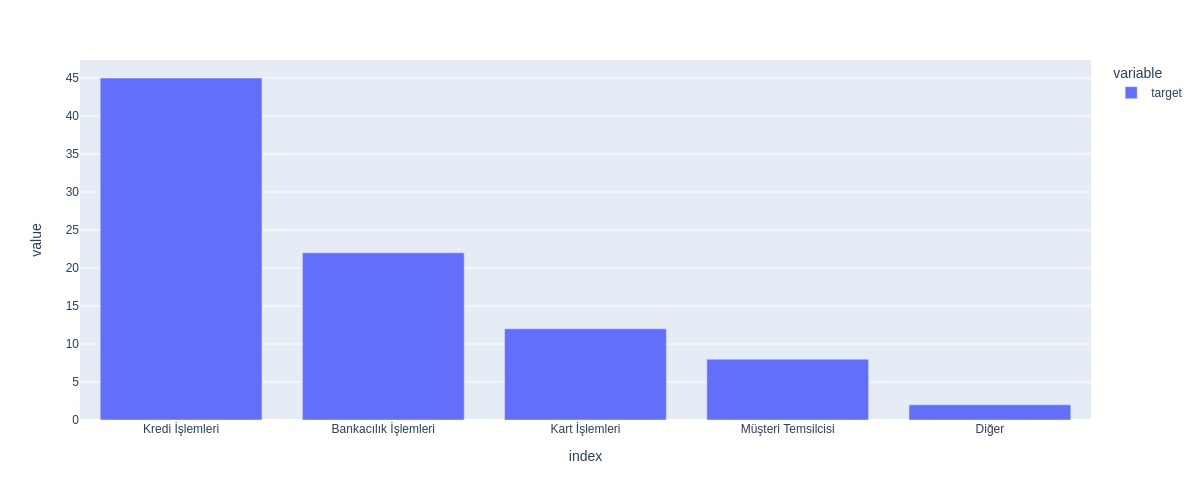
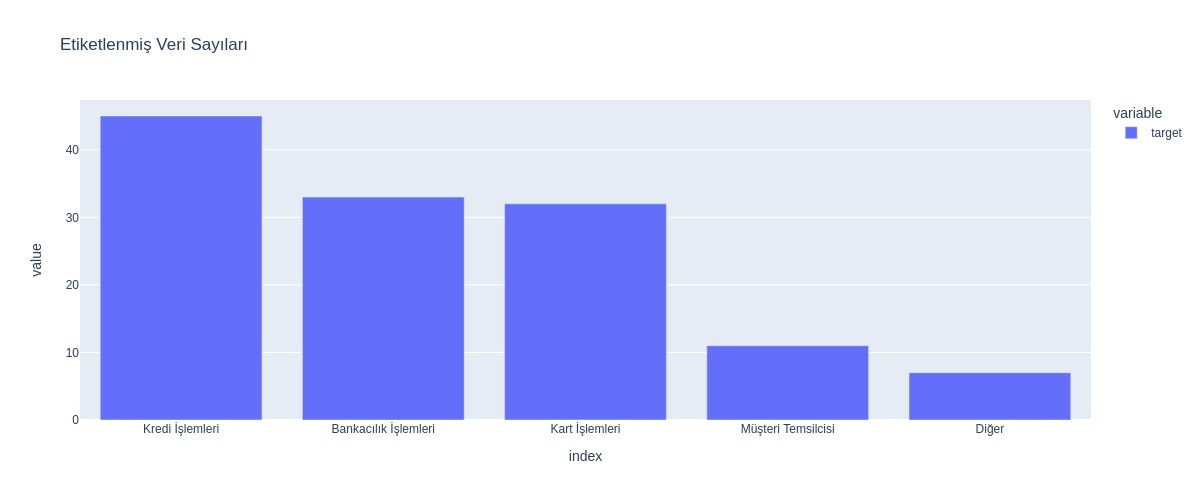
requirements added

diff --git a/main.py b/main.py
@@ -1,22 +1,17 @@
 import streamlit as st
-import psycopg2, time, numpy, os
+import psycopg2, time, numpy, os, pyautogui
 import pandas as pd
 from psycopg2.extensions import register_adapter, AsIs
+import plotly.express as px
+import plotly.io as pio
 
-df = pd.read_csv("../databaseConnect/database.csv")
-# hostname = "ec2-3-227-68-43.compute-1.amazonaws.com"
-# port_id = 5432
-# database = "d35km1f047g05o"
-# username = "wzgatqmfdcynrt"
[1 lines of base64/hex data omitted]
 
+# df = pd.read_csv("../databaseConnect/database.csv")
 hostname = "localhost"
 port_id = 5432
 database = "nlpDatabase"
 username = "postgres"
 password = "Eliftosun123"
-
-
 
 st.set_page_config(page_title="Veri Etiketleme Aracı",
                    page_icon=":bar_chart:",
@@ -27,6 +22,85 @@ st.set_page_config(page_title="Veri Etiketleme Aracı",
 st.markdown('''<h1 style='text-align: center; color: white; font_size = 20'> 📊 Veri Etiketleme Aracı</h1>''',
             unsafe_allow_html=True)
 
+def sqlExecute(raw_code):
+    with psycopg2.connect(host=hostname, port=port_id, dbname=database, user=username, password=password) as conn:
+        with conn.cursor() as cursor:
+            cursor.execute(raw_code)
+            conn.commit()  # save
+
+def sqlData(raw_code):
+    with psycopg2.connect(host=hostname, port=port_id, dbname=database, user=username, password=password) as conn:
+        with conn.cursor() as curs:
+            curs.execute(raw_code)
+            conn.commit()
+            data = curs.fetchall()
+            return data
+def dataResult():
+    csvDataQuery = "select c.id,text,t.target, u.username from comp c join targets t using (id) inner join users u on t.userId = u.id;"
+    csvDataQuery = sqlData(csvDataQuery)
+    csvData = pd.DataFrame(csvDataQuery, columns=["id", "text", "target", "username"])
+    return csvData
+def page2():
+    def downloadImage(img_path, file_name):
+        with open(img_path, "rb") as file:
+            btn = st.download_button(
+                label="Download image",
+                data=file,
+                mime="image/png",
+                file_name=file_name
+            )
+    csvData = dataResult()
+    columns = st.columns([4,1])
+    static = st.empty()
+    with columns[0]:
+        staticButton = static.button("Kullanıcı İstatistikleri Görüntüle", key="static")
+    with columns[1]:
+        USER_ID = login()
+    if staticButton:
+        hideButton = st.button("Kapat", key="hidden")
+        if hideButton:
+            static.empty()
+        fig = px.bar(csvData.username.value_counts(), width=1200, title="Etiket Atan Kullanıcı İstatistikleri")
+        st.plotly_chart(fig)
+        pio.kaleido.write_image(fig=fig, file='img/userStatics.jpg', format='jpg', engine="kaleido")
+        downloadImage("img/userStatics.jpg", "userStatics.jpg")
+        static.empty()
+    fig = px.bar(csvData.target.value_counts(), width=1200, title="Etiketlenmiş Veri Sayıları")
+    st.plotly_chart(fig)
+    pio.kaleido.write_image(fig=fig, file='img/targetStatics.jpg', format='jpg', engine="kaleido")
+    downloadImage("img/targetStatics.jpg", "targetStatics.jpg")
+    cols = st.columns([3,1])
+    with cols[0]:
+        st.dataframe(csvData)
+    with cols[1]:
+        file()
+    fig = px.pie(csvData, values=csvData.target.value_counts(), names=csvData.target.unique(), title="Etiketlenmiş Veri Yüzdeleri")
+    st.plotly_chart(fig)
+
+def file():
+        csvData = dataResult()
+        cho = st.selectbox("Dataset indirme biçimini seçiniz", ("csv", "excel", "json"))
+        csvData.to_csv("datas/targetDataset.csv", index=False)
+        if cho == "csv":
+            st.download_button(
+                label="📥 Download data as CSV",
+                data=csvData.to_csv().encode("utf-8"),
+                file_name='bank_result.csv',
+                mime='text/csv',
+            )
+        elif cho == "excel":
+            file_path = "datas/targetDataset.csv"
+            with open(file_path, 'rb') as my_file:
+                 st.download_button(label='📥 Download data as Excel', data=my_file, file_name='bank_result.xlsx',
+                                    mime='application/vnd.openxmlformats-officedocument.spreadsheetml.sheet')
+
+        elif cho == "json":
+            st.download_button(
+            label="📥 Download data as Json",
+            data=csvData.to_json(),
+            file_name="bank_result.json",
+            mime="text/json"
+)
 def sidebarPanel():
     with st.sidebar:
         def user():
@@ -58,48 +132,15 @@ def sidebarPanel():
                     userIdDf = pd.DataFrame(userIdQuery)
                     return userIdDf.iloc[0, 0]
 
-        def file():
-            cho = st.selectbox("Dataset indirme biçimini seçiniz", ("csv", "excel", "json"))
-            if cho == "csv":
-                st.download_button(
-                    label="📥 Download data as CSV",
-                    data=df.to_csv().encode("utf-8"),
-                    file_name='bank_deneme.csv',
-                    mime='text/csv',
-                )
-            elif cho == "excel":
-                file_path = "../databaseConnect/database.csv"
-                with open(file_path, 'rb') as my_file:
-                    st.download_button(label='📥 Download data as Excel', data=my_file, file_name='bank_deneme.xlsx',
-                                       mime='application/vnd.openxmlformats-officedocument.spreadsheetml.sheet')
 
-            elif cho == "json":
-                st.download_button(
-                    label="📥 Download data as Json",
-                    data=df.to_json(),
-                    file_name="bank_deneme.json",
-                    mime="text/json"
-                )
-
+        # def statics():
+        #     staticButton = st.button("İstatistikleri Görüntüle")
+        #     if staticButton:
+        #         st.bar_chart(csvData.username.value_counts())
         userId = user()
-        file()
+        # file()
     return userId
 
-
-def sqlExecute(raw_code):
-    with psycopg2.connect(host=hostname, port=port_id, dbname=database, user=username, password=password) as conn:
-        with conn.cursor() as cursor:
-            cursor.execute(raw_code)
-            conn.commit()  # save
-
-
-def sqlData(raw_code):
-    with psycopg2.connect(host=hostname, port=port_id, dbname=database, user=username, password=password) as conn:
-        with conn.cursor() as curs:
-            curs.execute(raw_code)
-            conn.commit()
-            data = curs.fetchall()
-            return data
 
 def addapt_numpy_float64(numpy_float64):
     return AsIs(numpy_float64)
@@ -138,8 +179,8 @@ def stages(query_df, i, targetIdList, USER_ID):
         )
         deleteButon = st.form_submit_button("Sil")
         approveButon = st.form_submit_button("Onayla")
-    deleteQuery = f"delete from complaints where id = {idNumber}"
     if approveButon and USER_ID is not None:
+        deleteQuery = f"delete from complaints where id = {idNumber}"
         insertQuery = f"insert into targets (id,target,userid) values ({idNumber},'{choice}',{USER_ID})"
         if choice == 'Kredi İşlemleri' and idNumber not in targetIdList:
             repeatFunction(insertQuery, deleteQuery, placeholder, idNumber)
@@ -151,7 +192,8 @@ def stages(query_df, i, targetIdList, USER_ID):
             repeatFunction(insertQuery, deleteQuery, placeholder, idNumber)
         elif choice == 'Diğer' and idNumber not in targetIdList:
             repeatFunction(insertQuery, deleteQuery, placeholder, idNumber)
-    elif deleteButon and USER_ID != "None":
+    elif deleteButon and USER_ID is not "None":
+        deleteQuery = f"delete from complaints where id = {idNumber}"
         deleteQuery = sqlExecute(deleteQuery)
         if deleteQuery == None:
             placeholder.empty()
@@ -160,21 +202,24 @@ def logout():
     os.environ["USER_ID"] = "None"
 def login():
     USER_ID = os.environ.get('USER_ID')
+    session = st.empty()
     if USER_ID == "None":
         USER_ID = sidebarPanel()
-        if USER_ID != None:
-            st.write(f"User Giriş Yapılıyor Yeni ID: {USER_ID}")
-
         os.environ["USER_ID"] = str(USER_ID)
     else:
-        st.write(f"User Giriş Yapmış ID: {USER_ID}")
+        # st.write(f"User Giriş Yapılıyor Yeni ID: {USER_ID}")
+        out = session.button("Çıkış")
+        if out:
+            st.write(f"{USER_ID} çıkış yapılıyor...")
+            time.sleep(0.5)
+            logout()
+            session.empty()
+            login()
+            time.sleep(0.5)
+            pyautogui.hotkey('f5')
     return USER_ID
 def main():
     USER_ID = login()
-    if USER_ID != "None":
-        out = st.button("Çıkış")
-        if out:
-            logout()
     outer_cols = st.columns([1, 1])
     targetIdQuery = "SELECT id FROM targets"
     targetIdQuery = sqlData(targetIdQuery)
@@ -194,5 +239,13 @@ def main():
         for i in range(10, 20):
             stages(query_df, i, targetIdList, USER_ID)
 
-if __name__ == "__main__":
+def main_page():
     main()
+
+if __name__ == "__main__":
+    page_names_to_funcs = {
+        "Ana Sayfa": main_page,
+        "İstatistikler": page2}
+
+    selected_page = st.sidebar.selectbox("Select a page", page_names_to_funcs.keys())
+    page_names_to_funcs[selected_page]()
